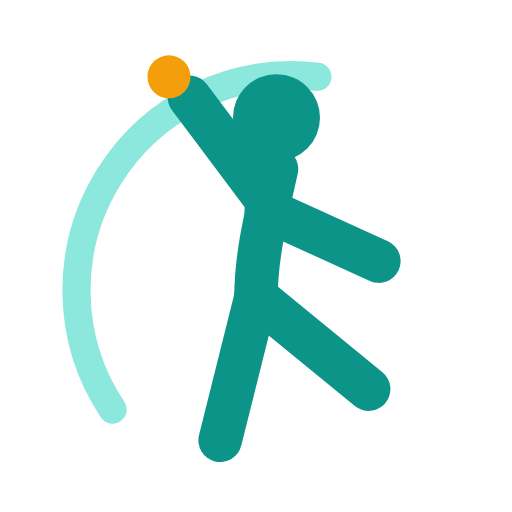
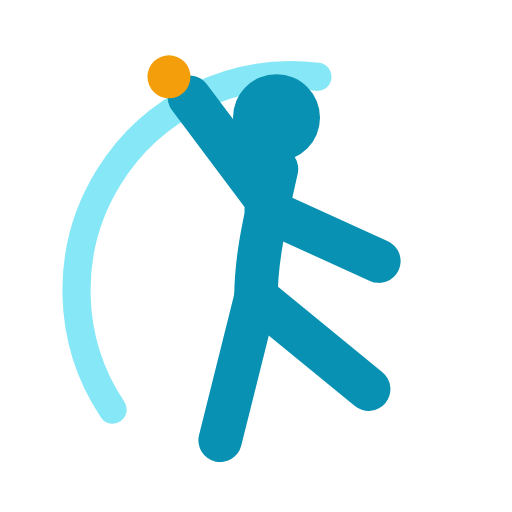
Shift Class Booker to a bluer aqua-teal (less green, distinct from MB3)
Repalette the page, logo, and tile icon from green-leaning teal to a
clearly blue-leaning teal/aqua so it no longer reads as green or resembles
Morning Brief. Contrast still AA.

Changed region(s): [[0.125, 0.0938, 0.7812, 0.9062]]

diff --git a/apps/class-booker/index.html b/apps/class-booker/index.html
@@ -3,7 +3,7 @@
 <head>
 <meta charset="utf-8">
 <meta name="viewport" content="width=device-width, initial-scale=1, viewport-fit=cover">
-<meta name="theme-color" content="#0D9488">
+<meta name="theme-color" content="#0891B2">
 <title>Class Booker</title>
 <link rel="manifest" href="./manifest.json">
 <link rel="apple-touch-icon" href="./icon-any-192.png">
@@ -12,8 +12,8 @@
 <link href="https://fonts.googleapis.com/css2?family=Lustria&family=Hanken+Grotesk:wght@400;500;600;700&display=swap" rel="stylesheet">
 <style>
   :root{
-    --teal-900:#134E4A; --teal-800:#115E59; --teal-700:#0F766E; --teal-600:#0D9488;
-    --teal-300:#5EEAD4; --teal-100:#CCFBF1; --teal-50:#EFFBF9;
+    --teal-900:#0C4A5A; --teal-800:#115E75; --teal-700:#0E7490; --teal-600:#0891B2;
+    --teal-300:#67E8F9; --teal-100:#CFF7FB; --teal-50:#ECFDFF;
     --gold:#F59E0B; --cream:#E9E2D1; --sand:#D6CDB6;
     --ink:#131313; --text-secondary:#5a5f5e; --white:#fff;
     --serif:"Lustria",Georgia,serif;
@@ -24,8 +24,8 @@
   body{
     margin:0; font-family:var(--sans); color:var(--ink);
     background:
-      radial-gradient(130% 65% at 50% -8%, rgba(13,148,136,.16), transparent 55%),
-      #E9F6F4;
+      radial-gradient(130% 65% at 50% -8%, rgba(8,145,178,.17), transparent 55%),
+      #E4F2F7;
     min-height:100dvh; line-height:1.45;
     padding:max(22px,env(safe-area-inset-top)) 18px calc(30px + env(safe-area-inset-bottom));
   }
@@ -47,13 +47,13 @@
   .cards{display:flex;flex-direction:column;gap:14px;margin-top:20px}
   a.card{
     display:block;text-decoration:none;color:inherit;position:relative;
-    background:var(--white);border:1px solid rgba(13,148,136,.16);
+    background:var(--white);border:1px solid rgba(8,145,178,.18);
     border-radius:22px;padding:18px 20px;
-    box-shadow:0 1px 2px rgba(19,78,74,.05), 0 10px 26px rgba(13,148,136,.10);
+    box-shadow:0 1px 2px rgba(12,74,90,.05), 0 10px 26px rgba(8,145,178,.12);
     transition:transform .09s ease, box-shadow .18s ease;
     -webkit-tap-highlight-color:transparent;
   }
-  a.card:active{transform:scale(.98);box-shadow:0 2px 8px rgba(13,148,136,.14)}
+  a.card:active{transform:scale(.98);box-shadow:0 2px 8px rgba(8,145,178,.16)}
   .row{display:flex;align-items:center;gap:14px}
   .chip{
     flex:0 0 auto;width:46px;height:46px;border-radius:14px;
